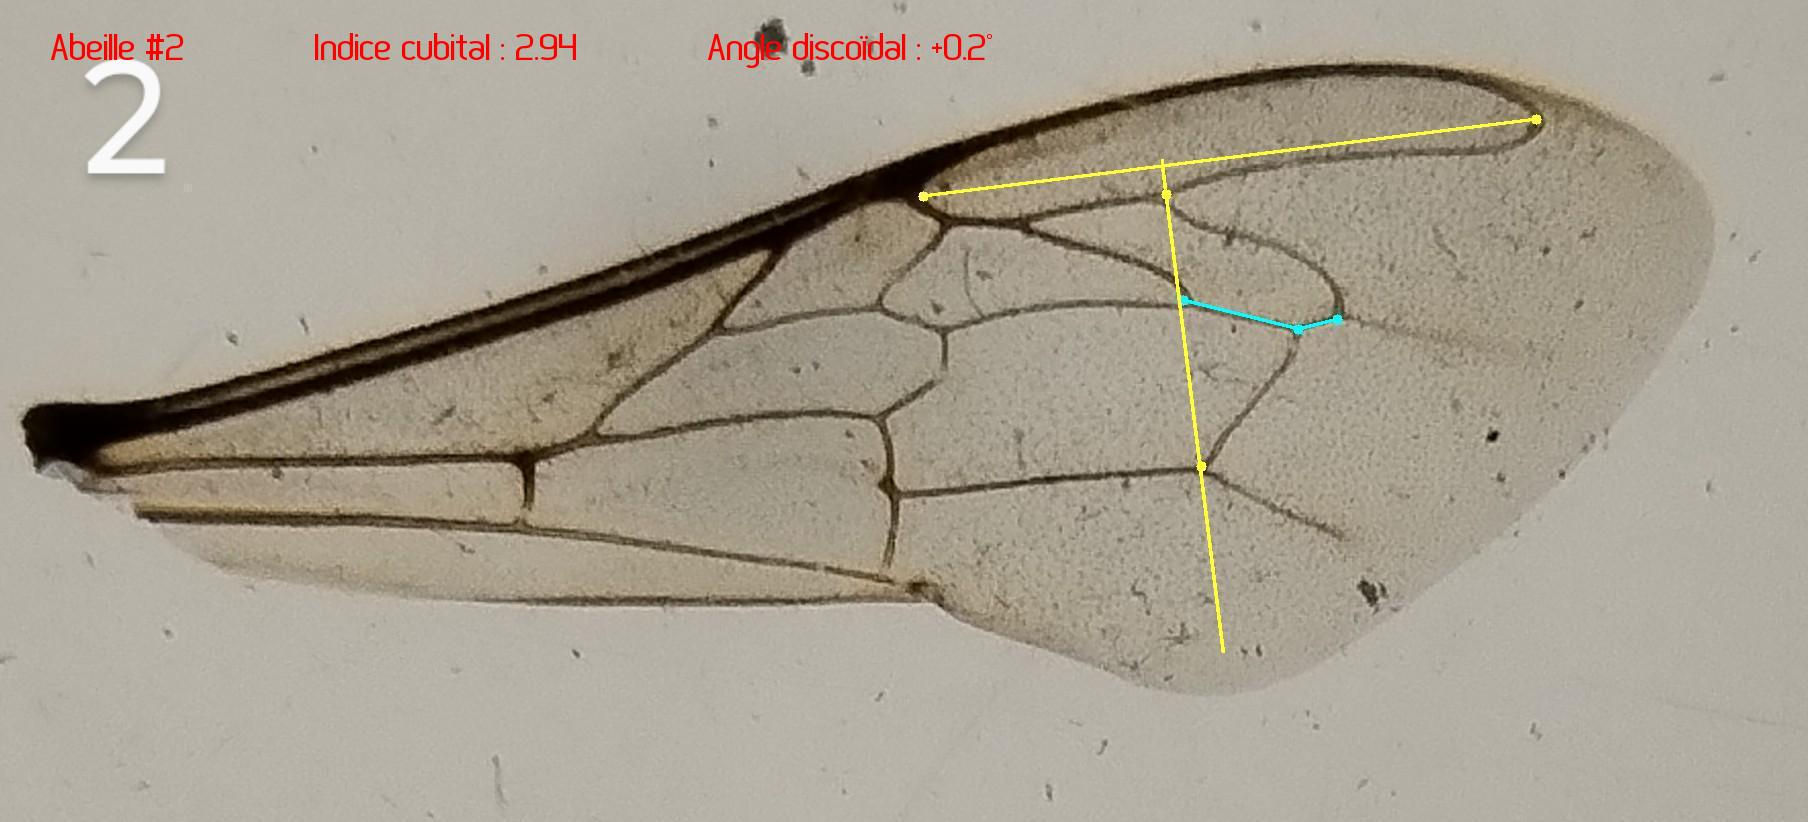
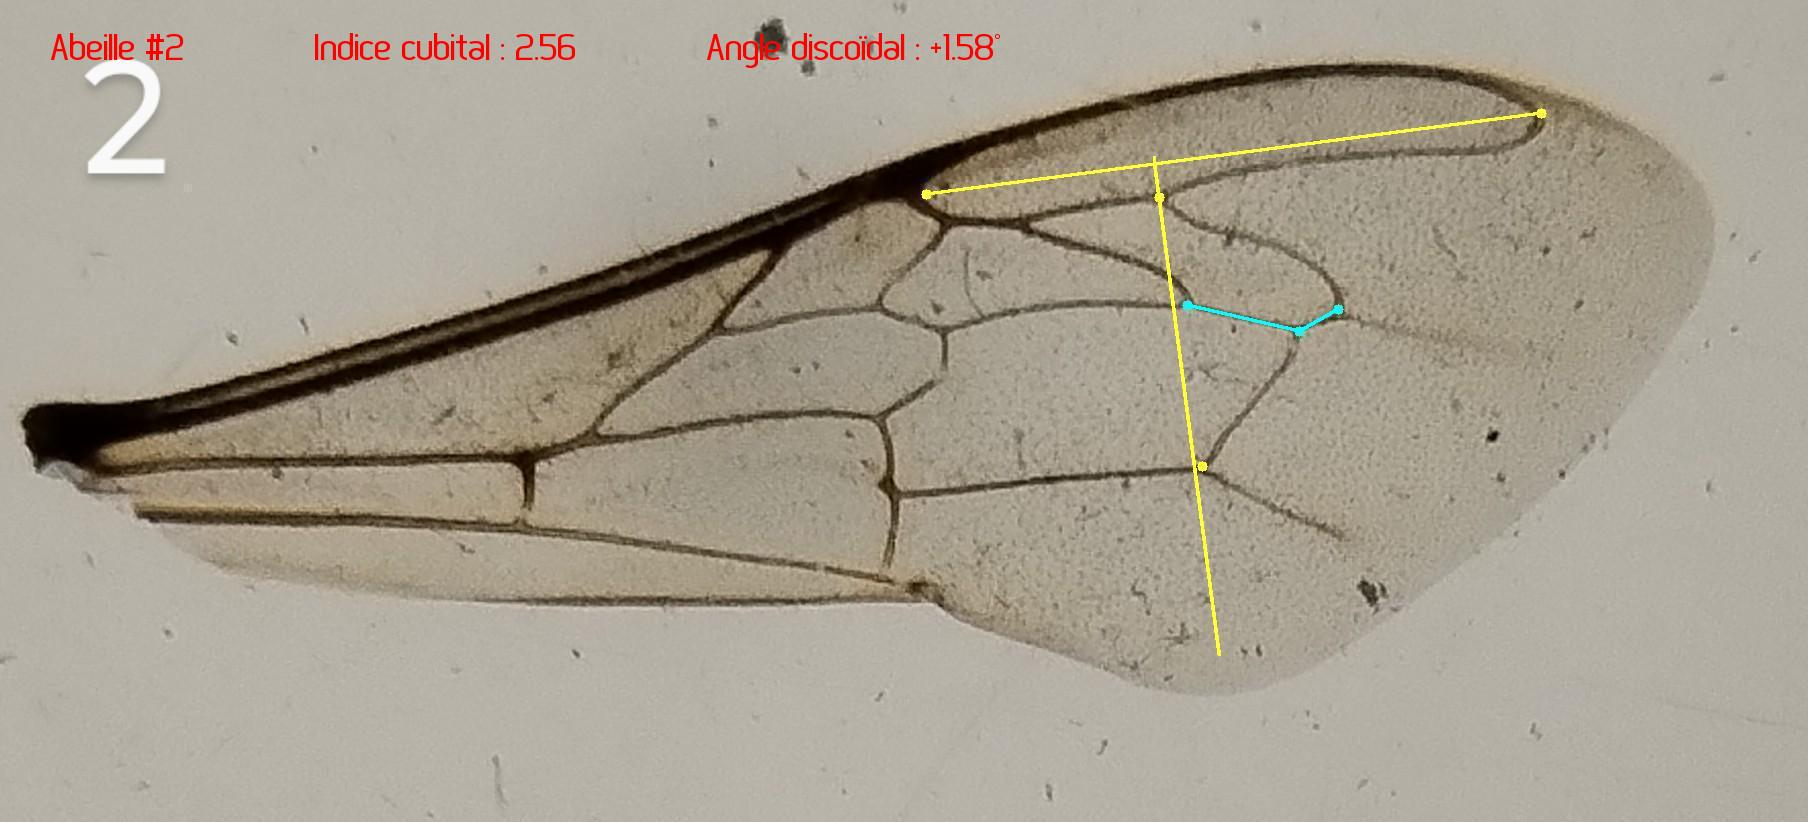
Corrected an issue with the location of DS and CI points when zooming (the positions were not correct when passing to the whole image)

Changed region(s): [[0.4956, 0.1217, 0.8673, 0.7908], [0.3717, 0.0304, 0.5575, 0.0912], [0.2788, 0.0304, 0.3407, 0.0912]]

diff --git a/IHM.py b/IHM.py
@@ -114,10 +114,10 @@ def compute_discoidal_shift(perp_02_point1, perp_02_point2, ds_points):
     return discoidal_shift
 
 class Second(QMainWindow):
-    def __init__(self, Tab, parent=None):
+    def __init__(self, Tab, num=1, parent=None):
         super(Second, self).__init__(parent)
         self.setWindowTitle("Fenêtre d'édition")
-
+        self.num = num
         self.move(50, 100)
 
         self.w = QWidget()
@@ -264,7 +264,7 @@ class Second(QMainWindow):
         draw = ImageDraw.Draw(img)
 
         # Define text attributes
-        num = 2
+        num = self.num
         ci = int(self.ci_value*100)/100
         ds = int(self.ds_value*100)/100
         tt = ""
@@ -305,25 +305,27 @@ class Second(QMainWindow):
                 new_name = insertnow(self.name + "_zoom_" + f"xmin{xmin}xmax{xmax}ymin{ymin}ymax{ymax}end" + f"_CI_{self.count_ci_points}" + f"_DS_{self.count_ds_points}" + self.extension)
             else:
                 new_name = insertnow(self.name + f"_CI_{self.count_ci_points}" + f"_DS_{self.count_ds_points}" + self.extension)
+                xmin, xmax, ymin, ymax = 0, 0, 0, 0
             self.last_name[self.ZOOM] = new_name
             A = IMAGE()
             A.load(self.tmp + file)
-            node = POINT()
-            node.j, node.i = x, y
+            node, node_zoom = POINT(), POINT()
+            node_zoom.j, node_zoom.i = x, y
+            node.j, node.i = x+xmin, y+ymin
             self.ci_points[self.count_ci_points-1] = node
-            A.highlight(node, self.color_ci)
+            if self.ZOOM:
+                A.highlight(node_zoom, self.color_ci)
+            else:
+                A.highlight(node, self.color_ci)
             plt.imsave(fname=f"{self.tmp}{self.last_name[self.ZOOM]}", arr=A.data)
             pixmap = QPixmap(f"{self.tmp}{os.sep}{self.last_name[self.ZOOM]}")
             self.label.setPixmap(pixmap)
             self.setCentralWidget(self.label)
             self.setCursor(Qt.ArrowCursor)
             if self.ZOOM:
-                xmin, xmax, ymin, ymax = get_zoom_center(file)
                 file_wo_zoom, file_w_zoom = self.get_last_file(self.tmp)
                 B = IMAGE()
                 B.load(self.tmp + file_wo_zoom)
-                node = POINT()
-                node.j, node.i = x+xmin, y+ymin
                 B.highlight(node, self.color_ci)
                 new_name = insertnow(self.name + f"_CI_{self.count_ci_points}" + f"_DS_{self.count_ds_points}" + self.extension)
                 plt.imsave(fname=f"{self.tmp}{new_name}", arr=B.data)
@@ -354,26 +356,29 @@ class Second(QMainWindow):
                 new_name = insertnow(self.name + "_zoom_" + f"xmin{xmin}xmax{xmax}ymin{ymin}ymax{ymax}end" + f"_CI_{self.count_ci_points}" + f"_DS_{self.count_ds_points}" + self.extension)
             else:
                 new_name = insertnow(self.name + f"_CI_{self.count_ci_points}" + f"_DS_{self.count_ds_points}" + self.extension)
+                xmin, xmax, ymin, ymax = 0, 0, 0, 0
             self.last_name[self.ZOOM] = new_name
             A = IMAGE()
             A.load(self.tmp + file)
-            node = POINT()
-            node.j, node.i = x, y
+            node, node_zoom = POINT(), POINT()
+            node_zoom.j, node_zoom.i = x, y
+            node.j, node.i = x+xmin, y+ymin
             self.ds_points[self.count_ds_points-1] = node
+            if self.ZOOM:
+                A.highlight(node_zoom, self.color_ds)
+            else:
+                A.highlight(node, self.color_ds)
+
             A.highlight(node, self.color_ds)
             plt.imsave(fname=f"{self.tmp}{self.last_name[self.ZOOM]}", arr=A.data)
             pixmap = QPixmap(f"{self.tmp}{os.sep}{self.last_name[self.ZOOM]}")
             self.label.setPixmap(pixmap)
             self.setCentralWidget(self.label)
             self.setCursor(Qt.ArrowCursor)
-
             if self.ZOOM:
-                xmin, xmax, ymin, ymax = get_zoom_center(file)
                 file_wo_zoom, file_w_zoom = self.get_last_file(self.tmp)
                 B = IMAGE()
                 B.load(self.tmp + file_wo_zoom)
-                node = POINT()
-                node.j, node.i = x+xmin, y+ymin
                 B.highlight(node, self.color_ds)
                 new_name = insertnow(self.name + f"_CI_{self.count_ci_points}" + f"_DS_{self.count_ds_points}" + self.extension)
                 plt.imsave(fname=f"{self.tmp}{new_name}", arr=B.data)
@@ -834,181 +839,181 @@ class Tab(QWidget):
         
     def editFile1(self):
         if self.fileName1 == "im1.png":
-            self.dialog = Second(self)
+            self.dialog = Second(self, 1)
             self.dialog.display_error_message()
         else:
-            self.dialog = Second(self)
+            self.dialog = Second(self, 1)
             self.dialog.display(self.fileName1)
         self.dialog.show()
         
     def editFile2(self):
         if self.fileName2 == "im2.png":
-            self.dialog = Second(self)
+            self.dialog = Second(self, 2)
             self.dialog.display_error_message()
         else:
-            self.dialog = Second(self)
+            self.dialog = Second(self, 2)
             self.dialog.display(self.fileName2)
         self.dialog.show()
     
     def editFile3(self):
         if self.fileName3 == "im3.png":
-            self.dialog = Second(self)
+            self.dialog = Second(self, 3)
             self.dialog.display_error_message()
         else:
-            self.dialog = Second(self)
+            self.dialog = Second(self, 3)
             self.dialog.display(self.fileName3)
         self.dialog.show()
     
     def editFile4(self):
         if self.fileName4 == "im4.png":
-            self.dialog = Second(self)
+            self.dialog = Second(self, 4)
             self.dialog.display_error_message()
         else:
-            self.dialog = Second(self)
+            self.dialog = Second(self, 4)
             self.dialog.display(self.fileName4)
         self.dialog.show()
 
     def editFile5(self):
         if self.fileName5 == "im5.png":
-            self.dialog = Second(self)
+            self.dialog = Second(self, 5)
             self.dialog.display_error_message()
         else:
-            self.dialog = Second(self)
+            self.dialog = Second(self, 5)
             self.dialog.display(self.fileName5)
         self.dialog.show()
     
     def editFile6(self):
         if self.fileName6 == "im6.png":
-            self.dialog = Second(self)
+            self.dialog = Second(self, 6)
             self.dialog.display_error_message()
         else:
-            self.dialog = Second(self)
+            self.dialog = Second(self, 6)
             self.dialog.display(self.fileName6)
         self.dialog.show()
     
     def editFile7(self):
         if self.fileName7 == "im7.png":
-            self.dialog = Second(self)
+            self.dialog = Second(self, 7)
             self.dialog.display_error_message()
         else:
-            self.dialog = Second(self)
+            self.dialog = Second(self, 7)
             self.dialog.display(self.fileName7)
         self.dialog.show()
     
     def editFile8(self):
         if self.fileName8 == "im8.png":
-            self.dialog = Second(self)
+            self.dialog = Second(self, 8)
             self.dialog.display_error_message()
         else:
-            self.dialog = Second(self)
+            self.dialog = Second(self, 8)
             self.dialog.display(self.fileName8)
         self.dialog.show()
     
     def editFile9(self):
         if self.fileName9 == "im9.png":
-            self.dialog = Second(self)
+            self.dialog = Second(self, 9)
             self.dialog.display_error_message()
         else:
-            self.dialog = Second(self)
-            self.dialog.display(self.fileName8)
+            self.dialog = Second(self, 9)
+            self.dialog.display(self.fileName9)
         self.dialog.show()
     
     def editFile10(self):
         if self.fileName10 == "im10.png":
-            self.dialog = Second(self)
+            self.dialog = Second(self, 10)
             self.dialog.display_error_message()
         else:
-            self.dialog = Second(self)
+            self.dialog = Second(self, 10)
             self.dialog.display(self.fileName10)
         self.dialog.show()
 
     def editFile11(self):
         if self.fileName11 == "im11.png":
-            self.dialog = Second(self)
+            self.dialog = Second(self, 11)
             self.dialog.display_error_message()
         else:
-            self.dialog = Second(self)
+            self.dialog = Second(self, 11)
             self.dialog.display(self.fileName11)
         self.dialog.show()
 
     def editFile12(self):
         if self.fileName12 == "im12.png":
-            self.dialog = Second()
+            self.dialog = Second(self, 12)
             self.dialog.display_error_message()
         else:
-            self.dialog = Second()
+            self.dialog = Second(self, 12)
             self.dialog.display(self.fileName12)
         self.dialog.show()
 
     def editFile13(self):
         if self.fileName13 == "im13.png":
-            self.dialog = Second()
+            self.dialog = Second(self, 13)
             self.dialog.display_error_message()
         else:
-            self.dialog = Second()
+            self.dialog = Second(self, 13)
             self.dialog.display(self.fileName13)
         self.dialog.show()
 
     def editFile14(self):
         if self.fileName14 == "im14.png":
-            self.dialog = Second()
+            self.dialog = Second(self, 14)
             self.dialog.display_error_message()
         else:
-            self.dialog = Second()
+            self.dialog = Second(self, 14)
             self.dialog.display(self.fileName14)
         self.dialog.show()
     
     def editFile15(self):
         if self.fileName15 == "im15.png":
-            self.dialog = Second()
+            self.dialog = Second(self, 15)
             self.dialog.display_error_message()
         else:
-            self.dialog = Second()
+            self.dialog = Second(self, 15)
             self.dialog.display(self.fileName15)
         self.dialog.show()
 
     def editFile16(self):
         if self.fileName16 == "im16.png":
-            self.dialog = Second()
+            self.dialog = Second(self, 16)
             self.dialog.display_error_message()
         else:
-            self.dialog = Second()
+            self.dialog = Second(self, 16)
             self.dialog.display(self.fileName16)
         self.dialog.show()
 
     def editFile17(self):
         if self.fileName17 == "im17.png":
-            self.dialog = Second()
+            self.dialog = Second(self, 17)
             self.dialog.display_error_message()
         else:
-            self.dialog = Second()
+            self.dialog = Second(self, 17)
             self.dialog.display(self.fileName17)
         self.dialog.show()
     
     def editFile18(self):
         if self.fileName18 == "im18.png":
-            self.dialog = Second()
+            self.dialog = Second(self, 18)
             self.dialog.display_error_message()
         else:
-            self.dialog = Second()
+            self.dialog = Second(self, 18)
             self.dialog.display(self.fileName18)
         self.dialog.show()
 
     def editFile19(self):
         if self.fileName18 == "im19.png":
-            self.dialog = Second()
+            self.dialog = Second(self, 19)
             self.dialog.display_error_message()
         else:
-            self.dialog = Second()
+            self.dialog = Second(self, 19)
             self.dialog.display(self.fileName19)
         self.dialog.show()
     
     def editFile20(self):
         if self.fileName18 == "im20.png":
-            self.dialog = Second()
+            self.dialog = Second(self, 20)
             self.dialog.display_error_message()
         else:
-            self.dialog = Second()
+            self.dialog = Second(self, 20)
             self.dialog.display(self.fileName20)
         self.dialog.show()
 
